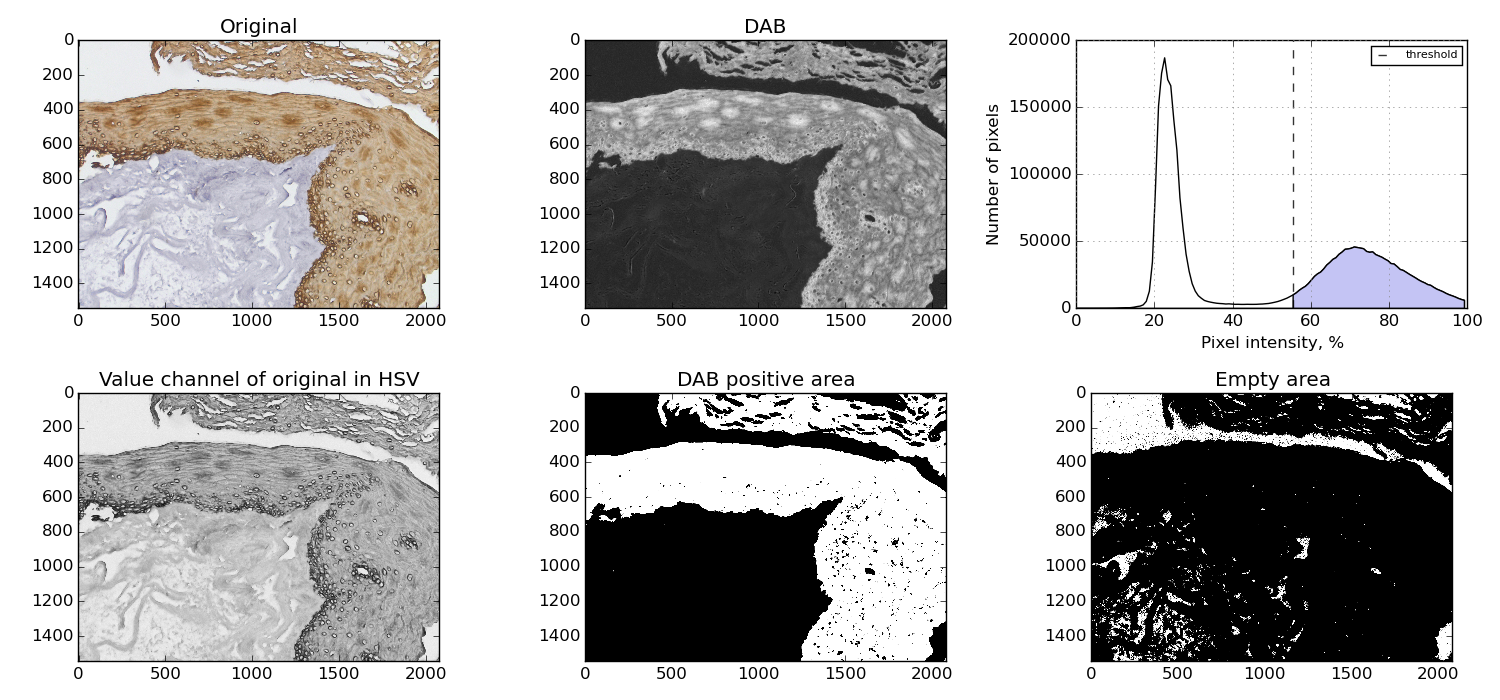
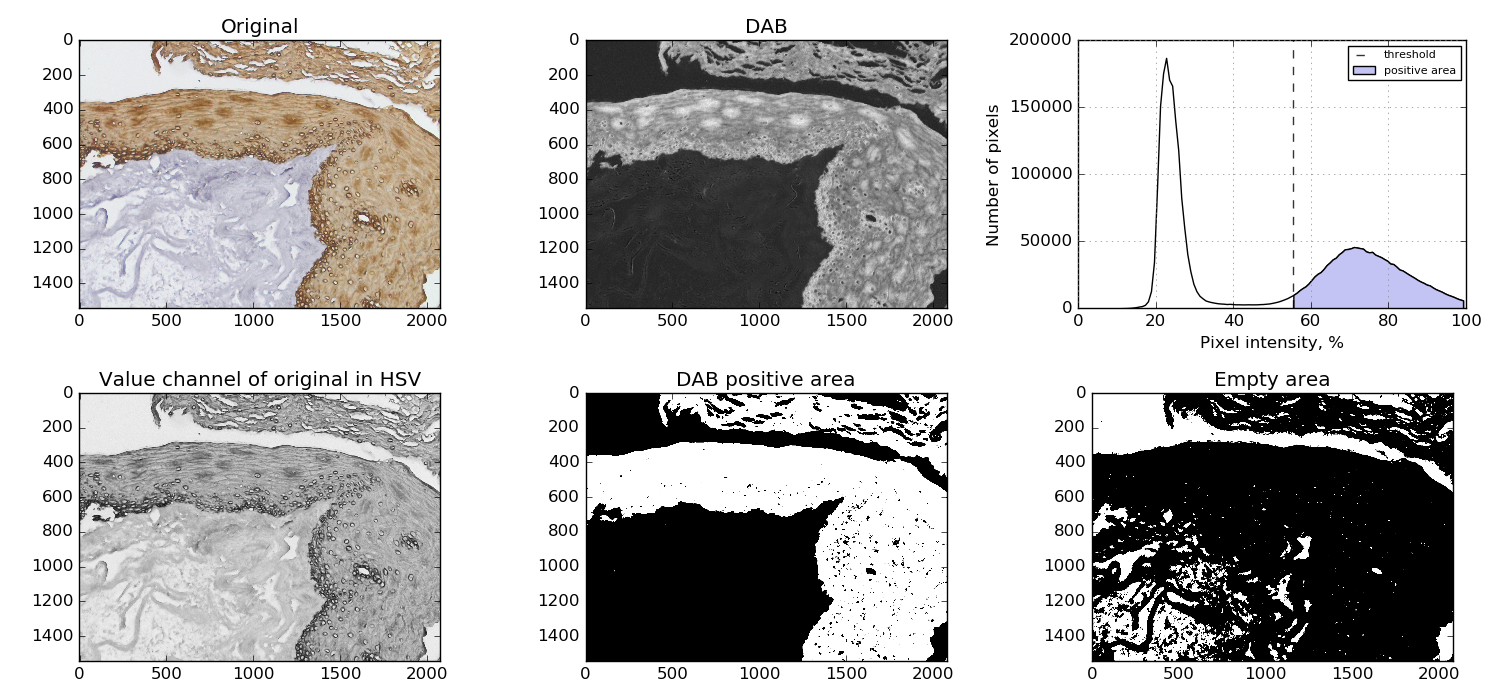
Added empty area threshold option. Replaced the example images with more suitable ones - fixed empty area threshhold.

diff --git a/dab_deconv_area.py b/dab_deconv_area.py
@@ -82,6 +82,9 @@ parser.add_argument("-p", "--path", required=True, help="Path to the directory o
 parser.add_argument("-t", "--thresh", required=False, type=int, help="Global threshold for DAB-positive area,"
                                                                      "from 0 to 100.Optimal values are usually"
                                                                      " located from 40 to 65.")
+parser.add_argument("-e", "--empty", required=False, type=int, help="Global threshold for EMPTY area,"
+                                                                     "from 0 to 100.Optimal values are usually"
+                                                                     " located from 88 to 95.")
 parser.add_argument("-s", "--silent", required=False, help="Supress figure rendering during the analysis,"
                                                            " only the final results"
                                                            " would be saved", action="store_true")
@@ -152,7 +155,11 @@ for filename in sorted(filenames):
     else:
         threshDefault = 55
     threshDAB_pos = stainDAB > threshDefault
-    threshIHC_v = ihc_v > 92
+    if args.empty:
+        threshEmptyDefault = args.empty
+    else:
+        threshEmptyDefault = 92
+    threshIHC_v = ihc_v > threshEmptyDefault
 
     # Count areas from numpy arrays
     areaAll = float(threshDAB_pos.size)
